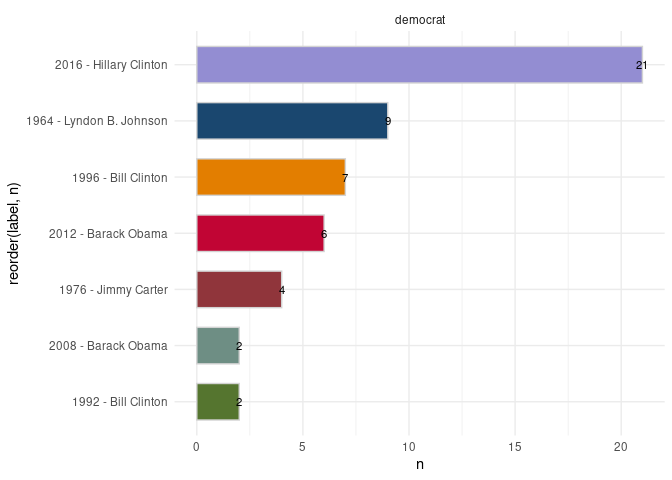
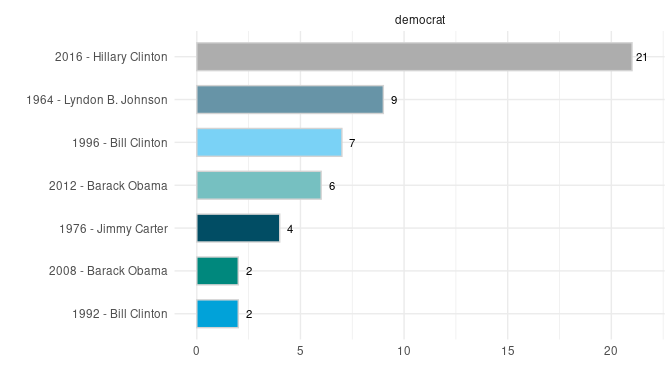
re

diff --git a/all-the-newness.md b/all-the-newness.md
@@ -193,14 +193,13 @@ last_dem %>%
                label = n)) + 
   
     geom_col(width=.65, color = 'lightgray') +  
-    geom_text(size = 3) +
+    geom_text(size = 3, nudge_y = .5) +
     coord_flip()+
     #labs(title = "Roll call results for legislation referencing HEALTH CARE") +
     theme_minimal()+
-    ggthemes::scale_fill_stata() +
-  
-    theme(legend.position = "none",
-          plot.title = element_text(size=12))+
+    ggthemes::scale_fill_economist()+
+    xlab('') + ylab('') +
+    theme(legend.position = "none")+
     facet_wrap(~party_win, ncol = 2) 
 ```
 
@@ -215,7 +214,7 @@ uspols::xsf_TileOutv10 %>%
   
   ggplot() + 
   geom_sf(aes(fill = label),
-          color = 'black' , 
+          color = 'white' , 
           alpha = .85) + 
   
   ggsflabel::geom_sf_text(data = uspols::xsf_TileInv10,
@@ -223,7 +222,7 @@ uspols::xsf_TileOutv10 %>%
                           size = 3,
                           color = 'white') +
   theme_minimal() +
-  ggthemes::scale_fill_stata() +
+  ggthemes::scale_fill_economist()+
   theme(axis.title.x=element_blank(),  ## add a simple theme --
         axis.text.x=element_blank(),
         axis.title.y=element_blank(),
@@ -258,7 +257,7 @@ vvo <- Rvoteview::download_metadata(type = 'members', chamber = 'house') %>%
   filter(congress > 66 & chamber != 'President')
 ```
 
-    ## [1] "/tmp/RtmpEWTjBI/Hall_members.csv"
+    ## [1] "/tmp/RtmpJ36nPK/Hall_members.csv"
 
 ``` r
 house <- vvo %>%
@@ -421,32 +420,32 @@ quicknews::qnews_search_contexts(qorp = qorp,
 </thead>
 <tbody>
 <tr class="odd">
-<td style="text-align: left;">text18847</td>
-<td style="text-align: left;">… upright valuable Citizen , and a steady supporter of the <code>Federal Government</code> and an Officer of the Revenue , in whom may …</td>
+<td style="text-align: left;">text22393</td>
+<td style="text-align: left;">… recieve nominations of the several officers necessary to put the <code>federal government</code> into motion in that state . For this purpose I …</td>
+</tr>
+<tr class="even">
+<td style="text-align: left;">text1436</td>
+<td style="text-align: left;">… body of State Creditors constantly opposing the proceedings of the <code>Federal Government</code> &amp; preventing the collection of the Impost . - . …</td>
+</tr>
+<tr class="odd">
+<td style="text-align: left;">text10264</td>
+<td style="text-align: left;">… a number of Gentlemen now about the seat of the <code>Federal Government</code> subject still to be either ⟨ a ⟩ mended or …</td>
+</tr>
+<tr class="even">
+<td style="text-align: left;">text1141</td>
+<td style="text-align: left;">… many people , than the adoption or establishment of the <code>federal Government</code> . - Many pious people wish the name of the …</td>
+</tr>
+<tr class="odd">
+<td style="text-align: left;">text454</td>
+<td style="text-align: left;">… not their influence be dangerous and perhaps fatal to the <code>Federal Government</code> ? I am fearful that the antifederal party in Congress …</td>
 </tr>
 <tr class="even">
 <td style="text-align: left;">text1182</td>
 <td style="text-align: left;">… in favour of it’s the insurgents - But to the <code>federal government</code> he has been openly and avowedly its opponent - and …</td>
 </tr>
 <tr class="odd">
-<td style="text-align: left;">text11505</td>
-<td style="text-align: left;">… office will be continued there after the Organization of the <code>Federal Government</code> in this State for the better security of the collection …</td>
-</tr>
-<tr class="even">
-<td style="text-align: left;">text10339</td>
-<td style="text-align: left;">… the two nations . As by the transformation of the <code>Federal Government</code> of the United states the establish’d forms have ceased , …</td>
-</tr>
-<tr class="odd">
-<td style="text-align: left;">text10790</td>
-<td style="text-align: left;">… . We contemplate the day of our accession to the <code>Federal Government</code> , now , near at hand . At the election …</td>
-</tr>
-<tr class="even">
-<td style="text-align: left;">text10400</td>
-<td style="text-align: left;">… prays to be continued in the same Office under the <code>Federal Government</code> , Or be appointed one of the land or Tide …</td>
-</tr>
-<tr class="odd">
-<td style="text-align: left;">text12237</td>
-<td style="text-align: left;">… receive nominations of the several Officers necessary to put the <code>federal Government</code> into motion in that State . For this purpose I …</td>
+<td style="text-align: left;">text1339</td>
+<td style="text-align: left;">… goes to new york to Solicit an Appointment Under the <code>federal government</code> . He has fought - and suffered for his Country …</td>
 </tr>
 </tbody>
 </table>
@@ -532,7 +531,7 @@ cross-tab/typology will show – !!
 uspols::xsf_TileOutv10 %>%
   left_join(splits, by = 'state_abbrev') %>% 
   ggplot() + 
-  geom_sf(aes(fill = split),
+  geom_sf(aes(fill = as.character(split)),
            color = 'gray') +
   geom_sf(data = uspols::xsf_TileInv10, 
           fill = NA, 
@@ -544,15 +543,15 @@ uspols::xsf_TileOutv10 %>%
                           size = 1.25,
                           color='black') +
   #scale_fill_distiller(palette = "RdBu", direction=-1) +
+  ggthemes::scale_fill_few () + 
   facet_wrap(~year) +
   theme_minimal()+
   theme(axis.text.x=element_blank(),
         axis.text.y=element_blank(),
         axis.title.x=element_blank(),
         axis.title.y=element_blank(),
-        legend.position = 'none') +
-labs(title = "Split tickets per General Election",
-     caption = "Source: DailyKos")
+        legend.position = 'bottom') +
+labs(title = "Split tickets per General Election")
 ```
 
 ![](all-the-newness_files/figure-markdown_github/unnamed-chunk-19-1.png)
@@ -577,6 +576,8 @@ house %>%
 ```
 
 ![](all-the-newness_files/figure-markdown_github/unnamed-chunk-20-1.png)
+
+### Profiling congressional districts via census data
 
 References
 ----------
